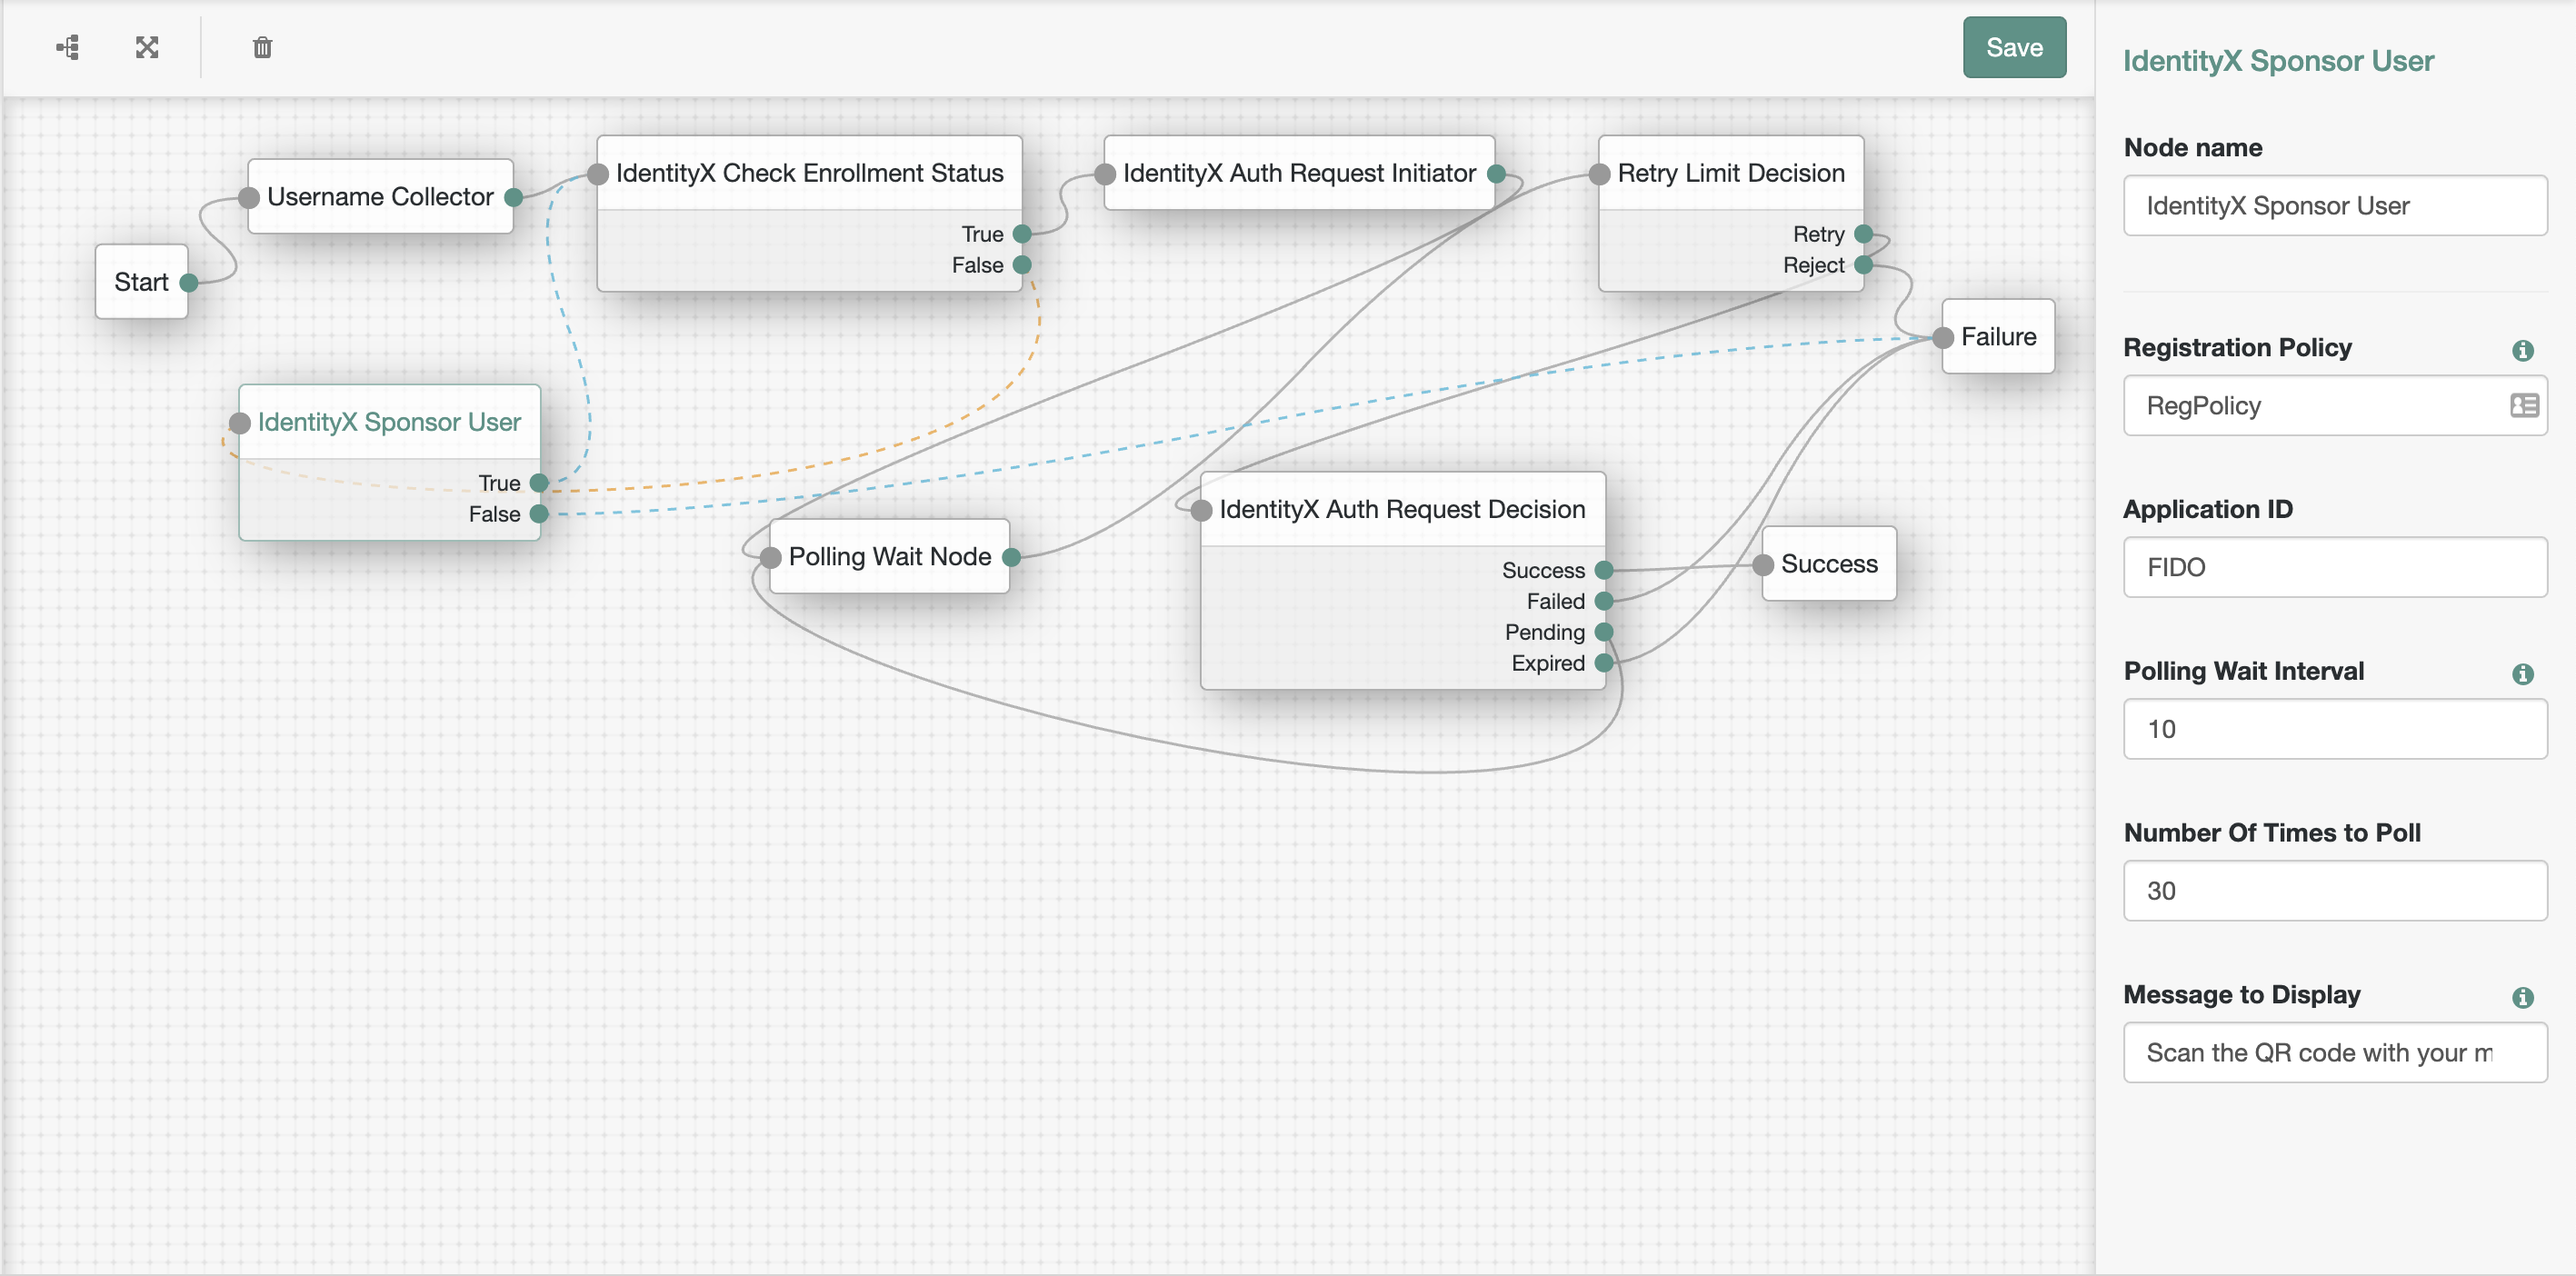
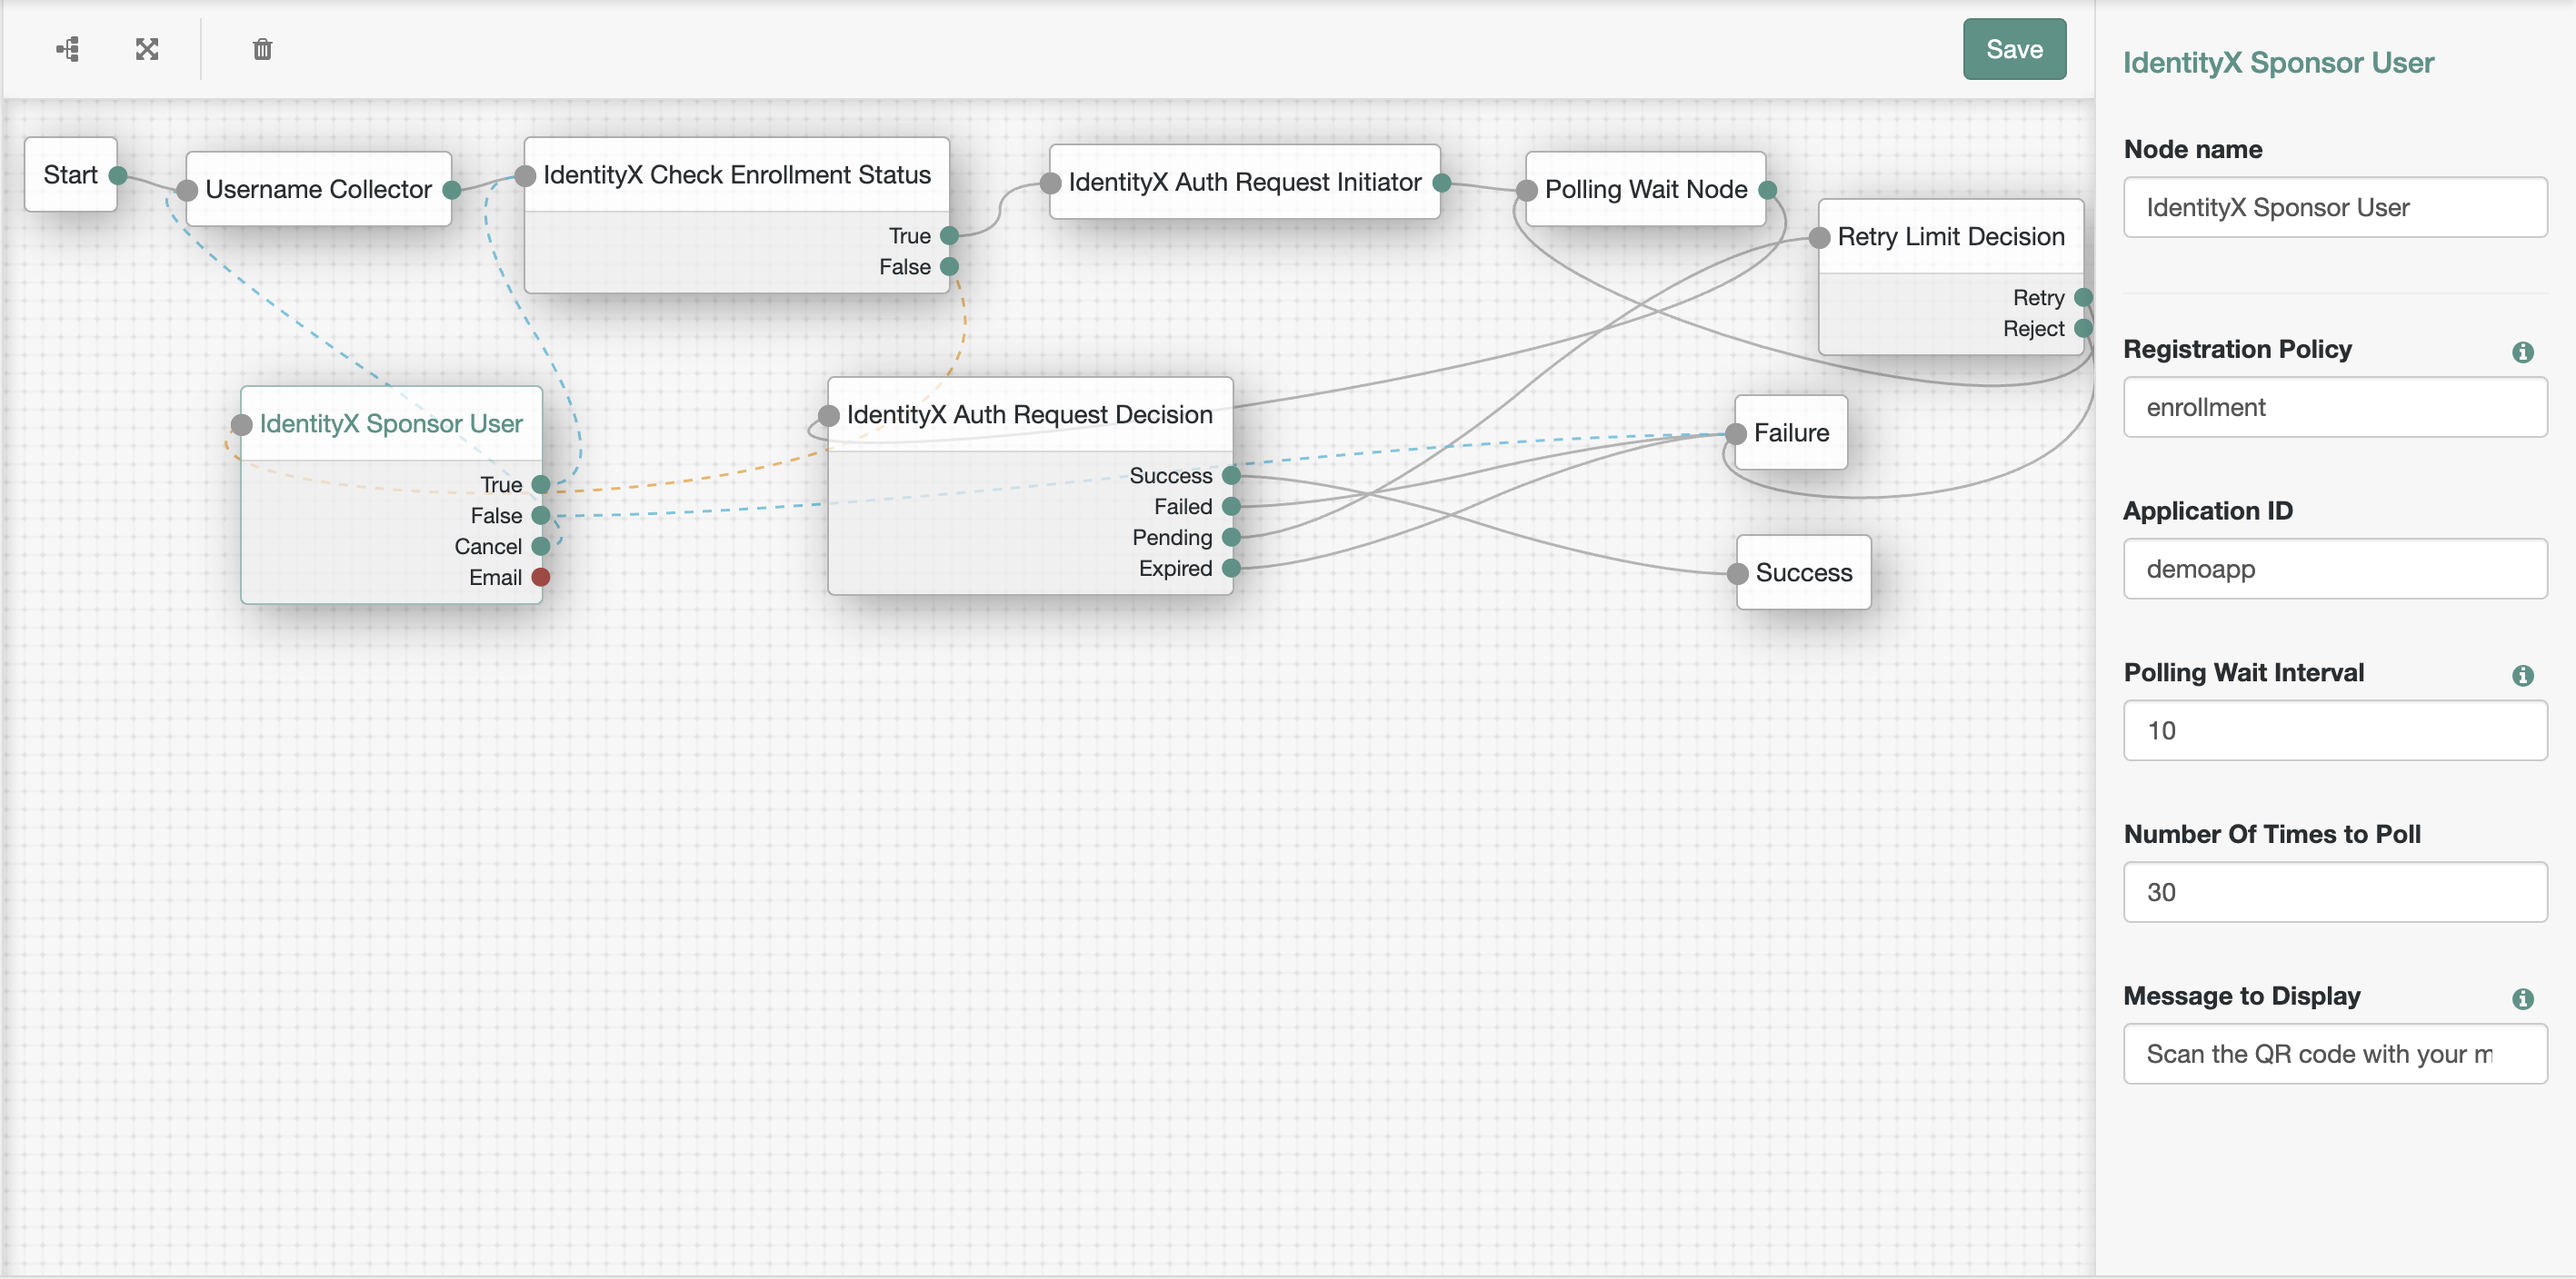
Fixed Email and Cancel buttons to go to outcomes

diff --git a/src/main/java/com/daon/idxAuthRequestNode/IdxSponsorUser.java b/src/main/java/com/daon/idxAuthRequestNode/IdxSponsorUser.java
@@ -1,12 +1,28 @@
 package com.daon.idxAuthRequestNode;
 
+import static com.daon.idxAuthRequestNode.IdxCommon.getTenantRepoFactory;
+import static com.daon.idxAuthRequestNode.IdxSponsorUser.*;
+import static org.forgerock.openam.auth.node.api.Action.goTo;
 import static org.forgerock.openam.auth.node.api.Action.send;
 
-import static com.daon.idxAuthRequestNode.IdxCommon.getTenantRepoFactory;
+import org.forgerock.json.JsonValue;
+import org.forgerock.openam.annotations.sm.Attribute;
+import org.forgerock.openam.auth.node.api.Action;
+import org.forgerock.openam.auth.node.api.Node;
+import org.forgerock.openam.auth.node.api.NodeProcessException;
+import org.forgerock.openam.auth.node.api.TreeContext;
+import org.forgerock.openam.authentication.callbacks.PollingWaitCallback;
+import org.forgerock.openam.utils.qr.ErrorCorrectionLevel;
+import org.forgerock.openam.utils.qr.GenerationUtils;
+import org.forgerock.util.i18n.PreferredLocales;
+import org.slf4j.Logger;
+import org.slf4j.LoggerFactory;
 
 import com.daon.identityx.rest.model.def.PolicyStatusEnum;
-import com.daon.identityx.rest.model.pojo.Sponsorship;
 import com.daon.identityx.rest.model.pojo.Policy.PolicyTypeEnum;
+import com.daon.identityx.rest.model.pojo.Sponsorship;
+import com.google.common.collect.ImmutableList;
+import com.google.inject.assistedinject.Assisted;
 import com.identityx.clientSDK.TenantRepoFactory;
 import com.identityx.clientSDK.collections.ApplicationCollection;
 import com.identityx.clientSDK.collections.PolicyCollection;
@@ -16,31 +32,20 @@ import com.identityx.clientSDK.queryHolders.PolicyQueryHolder;
 import com.identityx.clientSDK.repositories.ApplicationRepository;
 import com.identityx.clientSDK.repositories.PolicyRepository;
 import com.identityx.clientSDK.repositories.SponsorshipRepository;
-
-import com.google.inject.assistedinject.Assisted;
 import com.sun.identity.authentication.callbacks.ScriptTextOutputCallback;
 import com.sun.identity.sm.RequiredValueValidator;
 
 import java.util.Arrays;
+import java.util.List;
 import java.util.Optional;
+import java.util.ResourceBundle;
 import java.util.UUID;
 import javax.inject.Inject;
-
-import javax.security.auth.callback.TextOutputCallback;
 import javax.security.auth.callback.ConfirmationCallback;
+import javax.security.auth.callback.TextOutputCallback;
 
-import org.forgerock.json.JsonValue;
-import org.forgerock.openam.annotations.sm.Attribute;
-import org.forgerock.openam.auth.node.api.*;
-import org.forgerock.openam.authentication.callbacks.PollingWaitCallback;
-import org.forgerock.openam.utils.qr.GenerationUtils;
-import org.forgerock.openam.utils.qr.ErrorCorrectionLevel;
-import org.slf4j.Logger;
-import org.slf4j.LoggerFactory;
-
-@Node.Metadata(outcomeProvider  = AbstractDecisionNode.OutcomeProvider.class,
-        configClass      = IdxSponsorUser.Config.class)
-public class IdxSponsorUser extends AbstractDecisionNode {
+@Node.Metadata(outcomeProvider = IdxSponsorOutcomeProvider.class, configClass = Config.class)
+public class IdxSponsorUser implements Node {
 
     /**
      * Configuration for the node.
@@ -48,14 +53,14 @@ public class IdxSponsorUser extends AbstractDecisionNode {
     public interface Config {
 
         /**
-         * the IdenitityX policy which should be used for enrollment
+         * the IdentityX policy which should be used for enrollment
          * @return the policy name
          */
         @Attribute(order = 100, validators = {RequiredValueValidator.class})
         String enrollmentPolicyName();
 
         /**
-         * the IdenitityX application to be used
+         * the IdentityX application to be used
          * @return the application Id
          */
         @Attribute(order = 200, validators = {RequiredValueValidator.class})
@@ -95,6 +100,8 @@ public class IdxSponsorUser extends AbstractDecisionNode {
     private final String IDX_QR_KEY = "idx-qr-key";
     private final String IDX_POLL_TIMES = "idx-poll-times-remaining";
     private final String IDX_SPONSORSHIP_HREF = "idx-sponsorship-href";
+    private static final String BUNDLE = IdxSponsorUser.class.getName();
+
 
     private String sponsorshipHref;
 
@@ -110,23 +117,24 @@ public class IdxSponsorUser extends AbstractDecisionNode {
     @Override
     public Action process(TreeContext context) throws NodeProcessException {
         JsonValue sharedState = context.sharedState;
-        Optional<ScriptTextOutputCallback> scriptTextOutputCallback = context.getCallback(ScriptTextOutputCallback
-                 .class);
         String qrText;
 
         //check for callback from the cancel button
         Optional<ConfirmationCallback> confirmationCallback = context.getCallback(ConfirmationCallback.class);
+
         if (confirmationCallback.isPresent()) {
-            if (confirmationCallback.get().getSelectedIndex() == 1) {
-                logger.debug("User clicked Email QR button");
-
-                //the false output should be wired to a node which sends the email
-                return goTo(false).build();
-
-            } else {
+            int index = confirmationCallback.get().getSelectedIndex();
+            if (index == 0) {
                 //user clicked cancel button
                 logger.debug("User clicked cancel");
-                return goTo(true).build();
+                sharedState.remove(IDX_POLL_TIMES);
+                sharedState.remove(IDX_SPONSORSHIP_HREF);
+                sharedState.remove(IDX_QR_KEY);
+                return goTo(IdxSponsorOutcome.CANCEL.name()).replaceSharedState(sharedState).build();
+            } else if (index == 1) {
+                logger.debug("User clicked Email QR button");
+                //the false output should be wired to a node which sends the email
+                return goTo(IdxSponsorOutcome.EMAIL.name()).build();
             }
         }
 
@@ -141,9 +149,7 @@ public class IdxSponsorUser extends AbstractDecisionNode {
             throw new NodeProcessException(errorMessage);
         }
 
-        if (!sharedState.isDefined(IDX_QR_KEY) || !scriptTextOutputCallback.isPresent() || !scriptTextOutputCallback
-                .get().getMessage().equals(sharedState.get(IDX_QR_KEY).asString())) {
-
+        if (!sharedState.isDefined(IDX_QR_KEY)) {
             if (logger.isDebugEnabled()) {
                 logger.debug("Entering into Sponsor User for the first time for user: " + username);
             }
@@ -167,7 +173,7 @@ public class IdxSponsorUser extends AbstractDecisionNode {
                 logger.debug("Enrollment Successful for: " + username);
             }
             // If enrollment is successful send user to next node
-            return goTo(true).build();
+            return goTo(IdxSponsorOutcome.TRUE.name()).build();
         }
 
         // Build the callbacks and decrement from our configured number of poll times
@@ -179,7 +185,7 @@ public class IdxSponsorUser extends AbstractDecisionNode {
         Integer pollTimesRemaining = sharedState.get(IDX_POLL_TIMES).asInteger();
         if (pollTimesRemaining == 0) {
             // If number of times remaining to poll is 0, send user to false
-            return goTo(false).replaceSharedState(sharedState).build();
+            return goTo(IdxSponsorOutcome.FALSE.name()).replaceSharedState(sharedState).build();
         }
         sharedState.put(IDX_POLL_TIMES, pollTimesRemaining - 1);
 
@@ -192,10 +198,12 @@ public class IdxSponsorUser extends AbstractDecisionNode {
         String emailString = "Email QR Code";
         ConfirmationCallback confirmationCallback = new ConfirmationCallback(ConfirmationCallback.INFORMATION,
                 new String[]{cancelString,emailString}, 0);
+        confirmationCallback.setSelectedIndex(2);
 
-        return send(Arrays.asList(textOutputCallback, qrCodeCallback, new PollingWaitCallback(Integer
-                .toString(config.pollingWaitInterval() * 1000), "Waiting for Enrollment to Complete..."),
-                confirmationCallback)).replaceSharedState(sharedState).build();
+        return send(Arrays.asList(textOutputCallback, qrCodeCallback,
+                                  new PollingWaitCallback(Integer.toString(config.pollingWaitInterval() * 1000),
+                           "Waiting for Enrollment to Complete..."), confirmationCallback))
+                                .replaceSharedState(sharedState).build();
     }
 
     private String getQRText(TenantRepoFactory tenantRepoFactory, String userId)
@@ -320,6 +328,44 @@ public class IdxSponsorUser extends AbstractDecisionNode {
                 return false;
         }
 
+    }
+
+    /**
+     * The possible outcomes for the IdxSponsor node.
+     */
+    public enum IdxSponsorOutcome {
+        /**
+         * Successful enrollment.
+         */
+        TRUE,
+        /**
+         * Failed enrollment.
+         */
+        FALSE,
+        /**
+         * The end user pressed the cancel button
+         */
+        CANCEL,
+        /**
+         * The end user pressed the email button
+         */
+        EMAIL
+    }
+
+    /**
+     * Defines the possible outcomes from IdxSponsorUser node
+     */
+    public static class IdxSponsorOutcomeProvider implements org.forgerock.openam.auth.node.api.OutcomeProvider {
+        @Override
+        public List<Outcome> getOutcomes(PreferredLocales locales, JsonValue nodeAttributes) {
+            ResourceBundle bundle = locales.getBundleInPreferredLocale(BUNDLE,
+                                                                       IdxSponsorOutcomeProvider.class.getClassLoader());
+            return ImmutableList.of(
+                    new Outcome(IdxSponsorOutcome.TRUE.name(), bundle.getString("trueOutcome")),
+                    new Outcome(IdxSponsorOutcome.FALSE.name(), bundle.getString("falseOutcome")),
+                    new Outcome(IdxSponsorOutcome.CANCEL.name(), bundle.getString("cancelOutcome")),
+                    new Outcome(IdxSponsorOutcome.EMAIL.name(), bundle.getString("emailOutcome")));
+        }
     }
 
 
